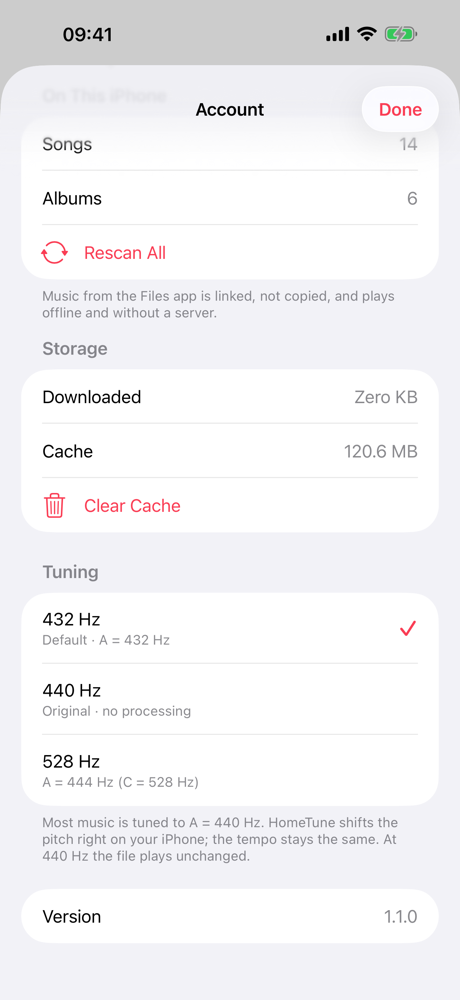
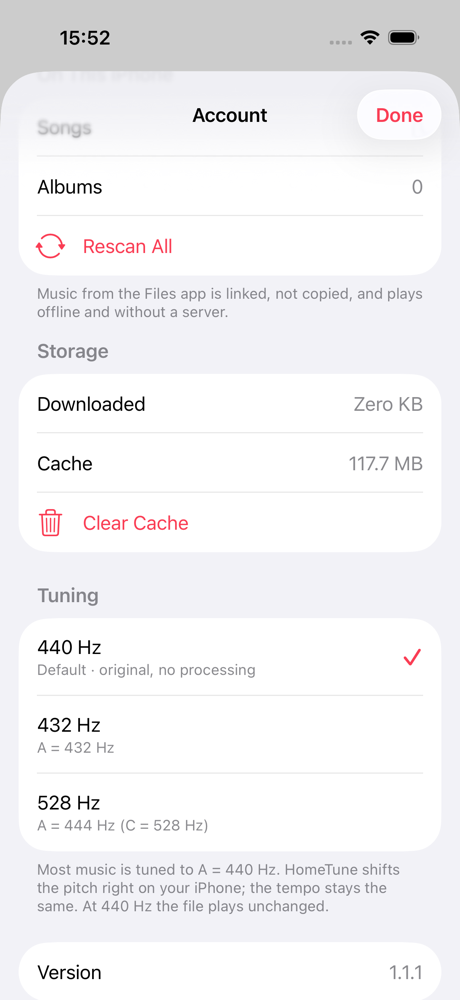
HomeTune 1.1.1: play files untouched by default (440 Hz); 432/528 Hz stay optional in Settings
- Default tuning is now 440 Hz (original, bit-exact), listed first in Settings
- README leads with the app itself; tuning details and measurements moved to docs/TUNING.md
- New settings screenshot, tests updated

diff --git a/App/Audio/Tuning.swift b/App/Audio/Tuning.swift
@@ -1,24 +1,24 @@
 import AVFoundation
 
 /// Stimmung der Wiedergabe (Einstellungen → Stimmung). Musik ist (fast immer) auf A4 = 440 Hz gestimmt.
-/// - 432 Hz (Standard): A4 = 432 Hz, 12·log2(432/440) ≈ −0,3177 Halbtöne (−31,77 Cent)
-/// - 440 Hz: Original, keine Bearbeitung (bit-genau durchgereicht)
+/// - 440 Hz (Standard): Original, keine Bearbeitung (bit-genau durchgereicht)
+/// - 432 Hz: A4 = 432 Hz, 12·log2(432/440) ≈ −0,3177 Halbtöne (−31,77 Cent)
 /// - 528 Hz: konventionell die Stimmung A4 = 444 Hz (dann liegt C5 bei 528 Hz), +15,67 Cent –
 ///   NICHT A4 = 528 Hz (das wären +3,15 Halbtöne). Wie die Frequenz-App: toA4Tuning(528) = 444.
 /// Das Tempo bleibt immer exakt gleich (rate = 1).
 enum Tuning: String, CaseIterable, Identifiable, Sendable {
-    case hz432 = "432"
     case hz440 = "440"
+    case hz432 = "432"
     case hz528 = "528"
 
     static let storageKey = "tuning"
-    static let standard = Tuning.hz432
+    static let standard = Tuning.hz440
     /// Kammerton der Aufnahmen
     static let sourceA4 = 440.0
 
     var id: String { rawValue }
 
-    /// Angezeigte Frequenz (432, 440, 528)
+    /// Angezeigte Frequenz (440, 432, 528)
     var hz: Int { Int(rawValue)! }
 
     /// Kammerton A4 der Zielstimmung
@@ -36,7 +36,7 @@ enum Tuning: String, CaseIterable, Identifiable, Sendable {
     var cents: Double { 100 * semitones }
     var isOriginal: Bool { self == .hz440 }
 
-    /// Gespeicherte Auswahl (Standard 432 Hz)
+    /// Gespeicherte Auswahl (Standard 440 Hz = Original)
     static var saved: Tuning {
         get { UserDefaults.standard.string(forKey: storageKey).flatMap(Tuning.init(rawValue:)) ?? standard }
         set { UserDefaults.standard.set(newValue.rawValue, forKey: storageKey) }

diff --git a/UITests/AppFlowTests.swift b/UITests/AppFlowTests.swift
@@ -16,7 +16,7 @@ final class AppFlowTests: XCTestCase {
         app.launchEnvironment = ["HOMETUNE_SERVER": server, "HOMETUNE_USER": user, "HOMETUNE_PASSWORD": pw]
         if english { app.launchArguments += ["-AppleLanguages", "(en)", "-AppleLocale", "en_US"] }
         // Jeder Test startet in der Standard-Stimmung (Argument-Domäne geht der gespeicherten Auswahl vor)
-        app.launchArguments += ["-tuning", "432"]
+        app.launchArguments += ["-tuning", "440"]
         app.launch()
     }
 
@@ -112,7 +112,7 @@ final class AppFlowTests: XCTestCase {
         XCTAssertEqual(hz.count, 0, "kein Hz-Hinweis: \(hz.allElementsBoundByIndex.map { $0.label })", file: file, line: line)
     }
 
-    /// Einstellungen → Stimmung: zwischen 432/528/440 Hz umschalten, Player und Albumkopf zeigen keinen Hz-Hinweis.
+    /// Einstellungen → Stimmung: Standard 440 Hz, zwischen 528/432/440 Hz umschalten, Player und Albumkopf zeigen keinen Hz-Hinweis.
     func testTuningSettingAndNoHzInPlayer() throws {
         tapTab(t("Mediathek", "Library"))
         let account = app.buttons[t("Konto und Einstellungen", "Account and Settings")].firstMatch
@@ -124,9 +124,8 @@ final class AppFlowTests: XCTestCase {
         XCTAssertTrue(t528.isHittable, "Abschnitt „Stimmung“")
         XCTAssertTrue(t440.exists && t432.exists)
         XCTAssertTrue(app.staticTexts[t("Stimmung", "Tuning")].exists || app.staticTexts[t("STIMMUNG", "TUNING")].exists)
-        // Standard 432 Hz für das Bildschirmfoto
-        t432.tap()
-        XCTAssertTrue(t432.isSelected)
+        // Standard 440 Hz (Original) für das Bildschirmfoto
+        XCTAssertTrue(t440.isSelected, "Standard ist 440 Hz")
         sleep(1)
         shot("10-settings-tuning")
         t528.tap()

diff --git a/Tests/TuningTests.swift b/Tests/TuningTests.swift
@@ -19,16 +19,16 @@ final class TuningTests: XCTestCase {
         XCTAssertEqual(Tuning.hz528.a4, 444)
         XCTAssertEqual(Tuning.hz528.cents, 15.667, accuracy: 0.001)
         XCTAssertEqual(Tuning.hz528.semitones, 12 * log2(444.0 / 440.0), accuracy: 1e-12)
-        XCTAssertEqual(Tuning.standard, .hz432)
+        XCTAssertEqual(Tuning.standard, .hz440)
         // C5 in 444er-Stimmung ≈ 528 Hz
         XCTAssertEqual(444 * pow(2, 3.0 / 12), 528, accuracy: 0.1)
     }
 
-    func testSavedTuningDefaultsTo432() {
+    func testSavedTuningDefaultsToOriginal() {
         let old = UserDefaults.standard.string(forKey: Tuning.storageKey)
         defer { UserDefaults.standard.set(old, forKey: Tuning.storageKey) }
         UserDefaults.standard.removeObject(forKey: Tuning.storageKey)
-        XCTAssertEqual(Tuning.saved, .hz432)
+        XCTAssertEqual(Tuning.saved, .hz440)
         Tuning.saved = .hz528
         XCTAssertEqual(Tuning.saved, .hz528)
         XCTAssertEqual(PitchChain(tuning: .hz528).tuning, .hz528)

diff --git a/App/UI/Settings/SettingsView.swift b/App/UI/Settings/SettingsView.swift
@@ -117,8 +117,8 @@ extension Tuning {
     /// Zweite Zeile in den Einstellungen
     var subtitle: LocalizedStringKey {
         switch self {
-        case .hz432: "Standard · A = 432 Hz"
-        case .hz440: "Original · keine Bearbeitung"
+        case .hz440: "Standard · Original, keine Bearbeitung"
+        case .hz432: "A = 432 Hz"
         case .hz528: "A = 444 Hz (C = 528 Hz)"
         }
     }

diff --git a/README.md b/README.md
@@ -1,12 +1,10 @@
 # HomeTune
 
-**A native iOS music app for your own [Navidrome](https://www.navidrome.org) server – the look and feel of the Library in Apple's Music app, playing in 432 Hz by default (440 Hz and 528 Hz selectable in Settings).**
+**A native iOS music app for your own [Navidrome](https://www.navidrome.org) server – the look and feel of the Library in Apple's Music app: lossless FLAC up to 24/96, gapless playback, offline downloads, synced lyrics and music stored on the iPhone itself.**
 
 HomeTune is an independent iPhone client for self-hosted Navidrome (or any Subsonic/OpenSubsonic server). It aims to feel like the Music app on iOS 26 (library sections, album and artist pages, mini player, full-screen player, "Playing Next" queue, lyrics …) while your music stays on hardware you own.
 
-> **Tuning: 432 Hz by default, 440 Hz and 528 Hz selectable in Settings.** At 432 Hz every track is pitched down by 1200·log2(432/440) ≈ **−31.77 cents** (A4 = 432 Hz instead of 440 Hz) on the device, with the tempo unchanged. *528 Hz* means the conventional A4 = 444 Hz tuning (C5 = 528 Hz, +15.67 cents) – not A4 = 528 Hz. *440 Hz* plays the file untouched. The choice only appears in *Settings → Tuning*; the player and album pages show the file format, like Apple's Lossless badge.
->
-> **Status:** version 1.1, tested against Navidrome 0.64 with MP3, AAC/ALAC and FLAC (up to 24 bit/96 kHz). UI in **English and German** (follows the iPhone language). Code comments are in German.
+> **Status:** version 1.1.1, tested against Navidrome 0.64 with MP3, AAC/ALAC and FLAC (up to 24 bit/96 kHz). UI in **English and German** (follows the iPhone language). Code comments are in German.
 >
 > Built with help from [Claude Code](https://claude.com/claude-code): Apple's Music app was analysed (names and texts only, see the HomeRoll series), the design decisions and testing are mine, a lot of the Swift was written together with it.
 >
@@ -42,7 +40,7 @@ HomeTune is an independent iPhone client for self-hosted Navidrome (or any Subso
 
 **Playback**
 - Original files (`stream?format=raw`), so FLAC and ALAC stay lossless; formats iOS can't read are fetched as FLAC from the server
-- **Tuning** (*Settings → Tuning*): 432 Hz (default), 440 Hz (original, no processing at all – samples pass through bit-exact) or 528 Hz (A4 = 444 Hz). Switching works instantly, also in the middle of a song, without a click
+- Files play untouched by default (bit-exact). Optional in *Settings → Tuning*: pitch-shift on the device to A = 432 Hz or A = 444 Hz ("528 Hz") with the tempo unchanged, switchable mid-song without a click – details and measurements in [docs/TUNING.md](docs/TUNING.md)
 - `AVAudioEngine` → own Audio Unit with [signalsmith-stretch](https://github.com/Signalsmith-Audio/signalsmith-stretch) (time-stretch, tempo-preserving) + band-limited resampling (exact pitch ratio, tempo exactly 100 %) → look-ahead peak limiter; ≈ 0.12 s fixed latency
 - **Gapless**: the next song is preloaded and scheduled sample-exactly behind the current one
 - Queue modelled after Apple's: *Play Next*, *Play Last*, *Continue Playing from …*, history, drag to reorder, swipe to remove, *Clear*; shuffle and repeat (off/all/one); the queue survives a restart
@@ -77,23 +75,6 @@ HomeTune also works without a server. On the sign-in screen tap **Continue Witho
 - **Not supported** (iOS can't decode them): WMA, WavPack, APE, DSD – and Ogg **Vorbis** (iOS 26.3 opens Ogg Opus, but not Ogg Vorbis). From a Navidrome server these formats still play, because HomeTune fetches them as FLAC.
 - *Remove from Library* never touches files outside the HomeTune folder. For files in the HomeTune folder you are asked whether the file should be deleted too (default: no). Files received via *Open in* from Mail/AirDrop are copies owned by the app.
 - Favorites of local songs stay on the device; local songs can only be in playlists on this iPhone and are not scrobbled.
-
-### How good is the pitch shifting?
-
-The test suite renders sine tones through exactly the same audio chain as the app and measures them with an FFT (simulator, 48 kHz). For comparison the same measurement with Apple's `AVAudioUnitTimePitch` (overlap 32), which HomeTune 1.0 used:
-
-| Tuning | Input | Output | Expected | Signal-to-noise (1.0 → 1.1) |
-|---|---|---|---|---|
-| 432 Hz | 440 Hz | 431.99 Hz | 432.00 Hz | 75.8 → 65.3 dB |
-| 432 Hz | 110 Hz | 108.01 Hz | 108.00 Hz | 69.1 → 59.0 dB |
-| 432 Hz | 1000 Hz | 981.82 Hz | 981.82 Hz | 70.4 → 60.6 dB |
-| 432 Hz | C-E-G chord | exact | – | 54.0 → 58.0 dB |
-| 528 Hz (A4 = 444) | 440 Hz | 444.01 Hz | 444.00 Hz | 70.9 → 74.4 dB |
-| 528 Hz (A4 = 444) | C-E-G chord | exact | – | 63.8 → 66.0 dB |
-| 440 Hz | noise + tones | bit-exact | bit-exact | – |
-| all | 2.000 s tone burst | 2.005 s | 2.000 s (tempo unchanged) | – |
-
-Switching 432 → 528 → 440 → 432 in the middle of a tone keeps the level within 0.61–1.07× without gaps, and the largest sample step stays at the level of the input (no click). CPU load in the simulator (Mac, one core): 1.2 % for the pitch shifter, 0.03 % at 440 Hz, 1.6 % for TimePitch. The chain uses signalsmith-stretch only for time-stretching and does the pitch change by resampling, because its built-in semitone mode shifted pure low tones by only ~12 instead of 32 cents (100 Hz → 99.3 Hz instead of 98.2 Hz) in our tests.
 
 ## Requirements
 
@@ -200,6 +181,6 @@ All apps: [github.com/silentprovider423](https://github.com/silentprovider423)
 
 ## Deutsch
 
-**HomeTune** ist eine eigene iPhone-Musik-App für deinen selbst betriebenen Navidrome-Server. Sie sieht aus und bedient sich wie die Mediathek von Apples Musik-App unter iOS 26 – und spielt standardmäßig in 432 Hz (−31,77 Cent, Tempo unverändert, verlustfrei vom Original); 440 Hz (Original, unbearbeitet) und 528 Hz (A4 = 444 Hz) sind in den Einstellungen wählbar. Die Oberfläche gibt es auf Deutsch und Englisch, je nach Sprache des iPhones. Funktionen, Voraussetzungen und Installation stehen oben.
+**HomeTune** ist eine eigene iPhone-Musik-App für deinen selbst betriebenen Navidrome-Server. Sie sieht aus und bedient sich wie die Mediathek von Apples Musik-App unter iOS 26 – verlustfrei (FLAC bis 24/96), lückenlos, offline und mit mitlaufenden Songtexten. Die Dateien laufen standardmäßig unverändert; wer möchte, kann in den Einstellungen eine andere Stimmung wählen (432 Hz oder 528 Hz, Tempo bleibt gleich). Die Oberfläche gibt es auf Deutsch und Englisch, je nach Sprache des iPhones. Funktionen, Voraussetzungen und Installation stehen oben.
 
 **Musik auf diesem iPhone:** Auch ohne Server nutzbar („Ohne Server fortfahren“). Über *Ordner hinzufügen …* / *Dateien hinzufügen …* wählst du Musik in der Dateien-App (FLAC, MP3, AAC, ALAC, WAV, AIFF). HomeTune kopiert nichts, sondern merkt sich per Bookmark, wo die Dateien liegen, liest die Tags auf dem Gerät und spielt sie in der gewählten Stimmung – offline, mit Warteliste und Sperrbildschirm. Noch einfacher: Musik in der Dateien-App nach *Auf meinem iPhone › HomeTune* verschieben, sie erscheint automatisch. Eigene Playlists gibt es auch ohne Server, .m3u/.m3u8/.pls lassen sich importieren.

diff --git a/docs/TUNING.md b/docs/TUNING.md
@@ -1,0 +1,22 @@
+# Tuning (optional)
+
+By default HomeTune plays every file untouched (440 Hz, bit-exact). In *Settings → Tuning* you can choose another tuning: at 432 Hz every track is pitched down by 1200·log2(432/440) ≈ **−31.77 cents** (A4 = 432 Hz instead of 440 Hz) on the device, with the tempo unchanged. *528 Hz* means the conventional A4 = 444 Hz tuning (C5 = 528 Hz, +15.67 cents) – not A4 = 528 Hz. The choice only appears in *Settings → Tuning*; the player and album pages show the file format, like Apple's Lossless badge.
+
+Switching works instantly, also in the middle of a song, without a click.
+
+## How good is the pitch shifting?
+
+The test suite renders sine tones through exactly the same audio chain as the app and measures them with an FFT (simulator, 48 kHz). For comparison the same measurement with Apple's `AVAudioUnitTimePitch` (overlap 32), which HomeTune 1.0 used:
+
+| Tuning | Input | Output | Expected | Signal-to-noise (1.0 → 1.1) |
+|---|---|---|---|---|
+| 432 Hz | 440 Hz | 431.99 Hz | 432.00 Hz | 75.8 → 65.3 dB |
+| 432 Hz | 110 Hz | 108.01 Hz | 108.00 Hz | 69.1 → 59.0 dB |
+| 432 Hz | 1000 Hz | 981.82 Hz | 981.82 Hz | 70.4 → 60.6 dB |
+| 432 Hz | C-E-G chord | exact | – | 54.0 → 58.0 dB |
+| 528 Hz (A4 = 444) | 440 Hz | 444.01 Hz | 444.00 Hz | 70.9 → 74.4 dB |
+| 528 Hz (A4 = 444) | C-E-G chord | exact | – | 63.8 → 66.0 dB |
+| 440 Hz | noise + tones | bit-exact | bit-exact | – |
+| all | 2.000 s tone burst | 2.005 s | 2.000 s (tempo unchanged) | – |
+
+Switching 432 → 528 → 440 → 432 in the middle of a tone keeps the level within 0.61–1.07× without gaps, and the largest sample step stays at the level of the input (no click). CPU load in the simulator (Mac, one core): 1.2 % for the pitch shifter, 0.03 % at 440 Hz, 1.6 % for TimePitch. The chain uses signalsmith-stretch only for time-stretching and does the pitch change by resampling, because its built-in semitone mode shifted pure low tones by only ~12 instead of 32 cents (100 Hz → 99.3 Hz instead of 98.2 Hz) in our tests.
